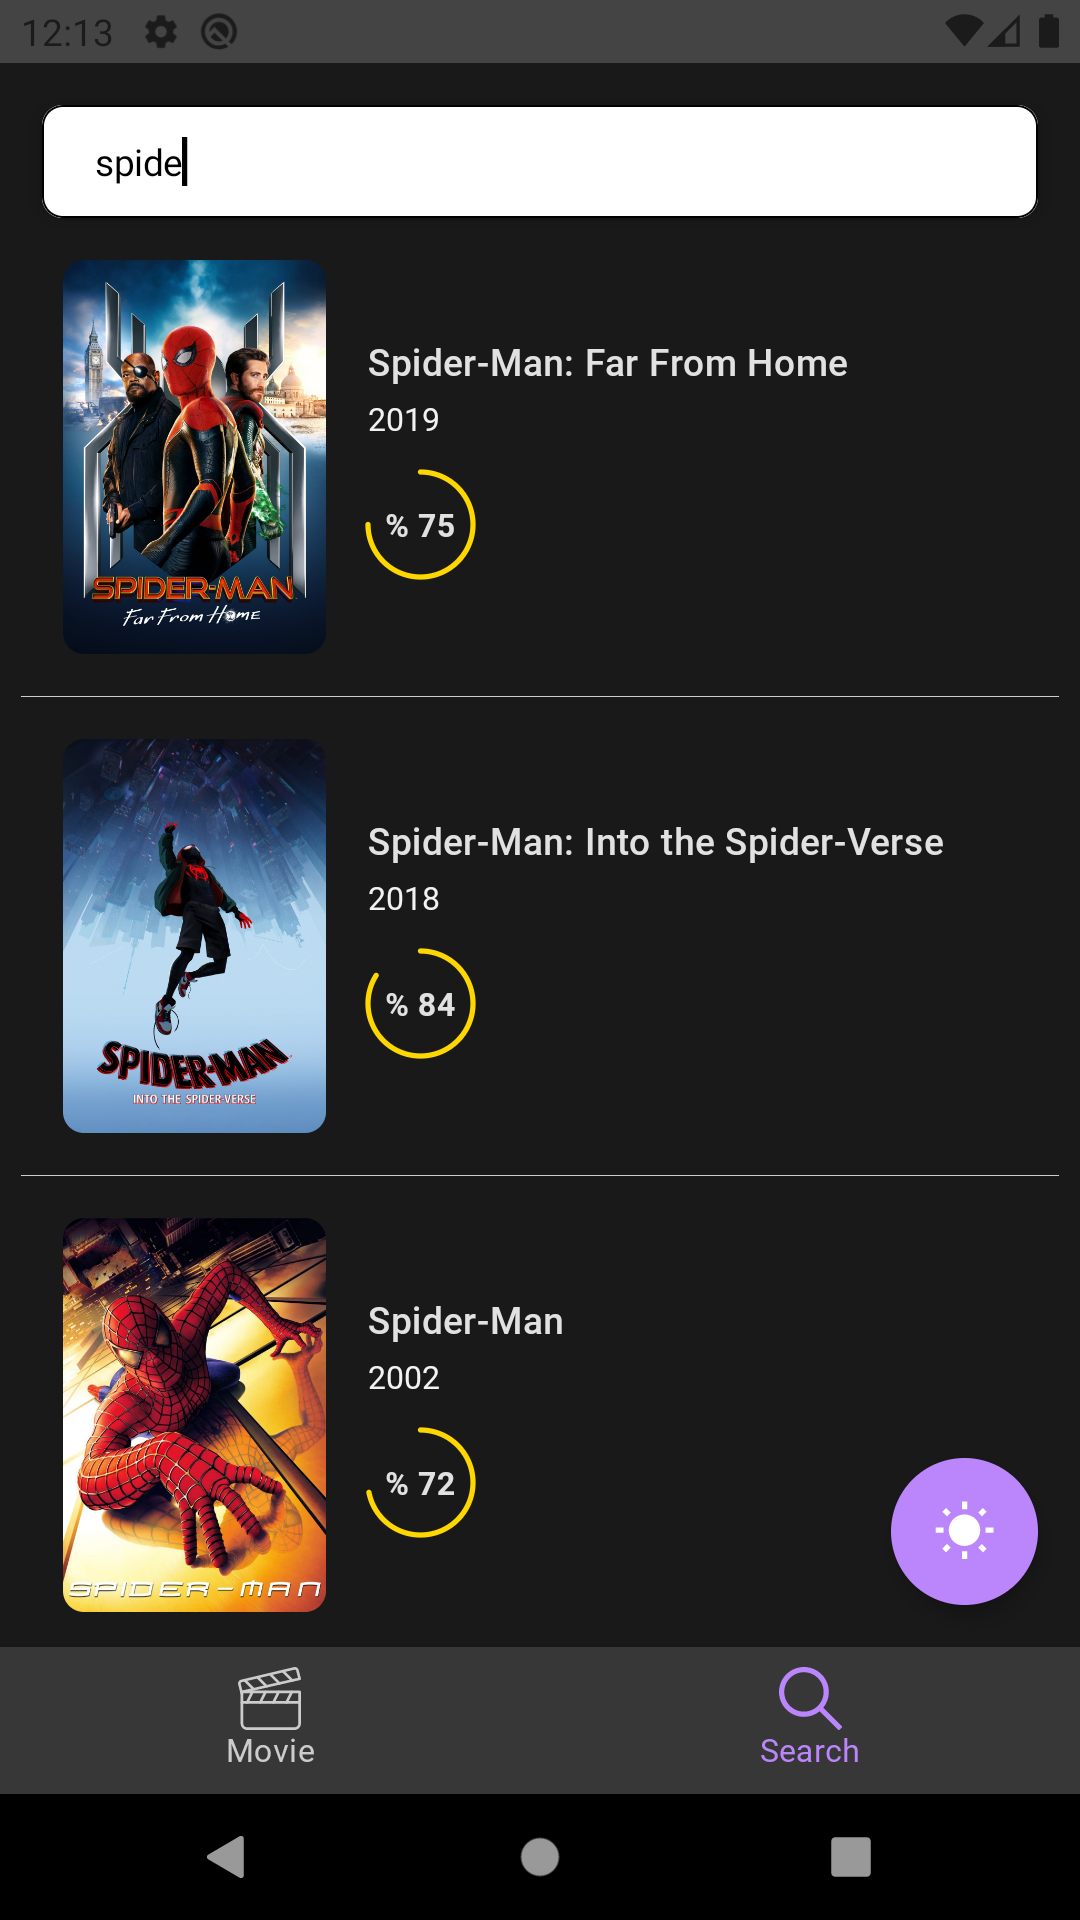
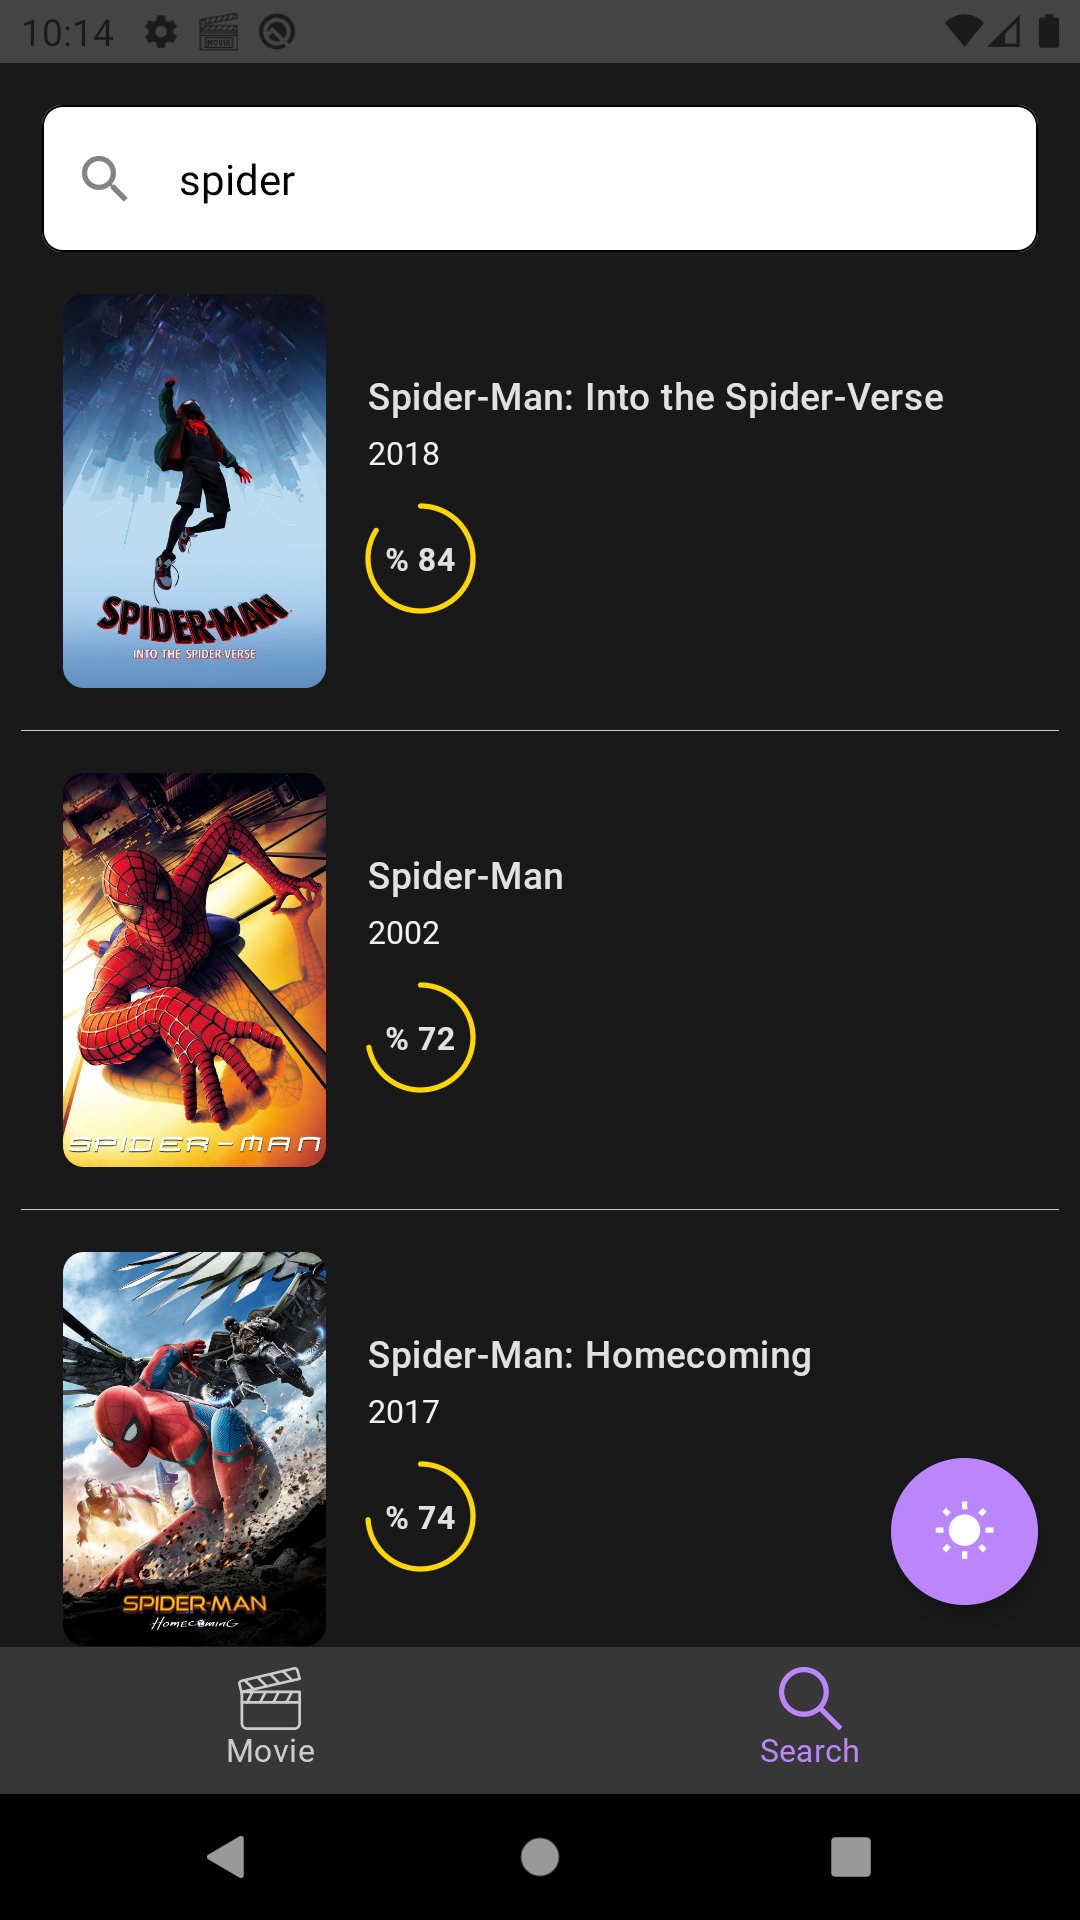
Updated TextField class

diff --git a/app/src/main/java/com/caner/composemoviedb/ui/component/TextField.kt b/app/src/main/java/com/caner/composemoviedb/ui/component/TextField.kt
@@ -1,0 +1,56 @@
+package com.caner.composemoviedb.ui.component
+
+import androidx.compose.foundation.border
+import androidx.compose.foundation.layout.fillMaxWidth
+import androidx.compose.foundation.layout.size
+import androidx.compose.foundation.shape.RoundedCornerShape
+import androidx.compose.material.Icon
+import androidx.compose.material.Text
+import androidx.compose.material.TextField
+import androidx.compose.material.TextFieldDefaults
+import androidx.compose.material.icons.Icons
+import androidx.compose.material.icons.filled.Search
+import androidx.compose.runtime.*
+import androidx.compose.runtime.saveable.rememberSaveable
+import androidx.compose.ui.Modifier
+import androidx.compose.ui.graphics.Color
+import androidx.compose.ui.unit.dp
+import com.caner.composemoviedb.ui.theme.Typography
+
+@Composable
+fun MovieTextField(
+    modifier: Modifier,
+    placeHolder: String = "",
+    newValue: (String) -> Unit = {}
+) {
+    var query by rememberSaveable { mutableStateOf("") }
+
+    TextField(
+        value = query,
+        onValueChange = {
+            query = it
+            newValue(it)
+        },
+        maxLines = 1,
+        shape = RoundedCornerShape(8.dp),
+        placeholder = { Text(text = placeHolder) },
+        leadingIcon = {
+            Icon(
+                imageVector = Icons.Default.Search,
+                contentDescription = null,
+                modifier = Modifier.size(24.dp)
+            )
+        },
+        singleLine = true,
+        textStyle = Typography.body1,
+        colors = TextFieldDefaults.textFieldColors(
+            textColor = Color.Black,
+            backgroundColor = Color.White,
+            focusedIndicatorColor = Color.Transparent,
+            unfocusedIndicatorColor = Color.Transparent,
+        ),
+        modifier = modifier
+            .fillMaxWidth()
+            .border(0.5.dp, Color.Black, RoundedCornerShape(8.dp))
+    )
+}

diff --git a/app/src/main/java/com/caner/composemoviedb/ui/screen/SearchScreen.kt b/app/src/main/java/com/caner/composemoviedb/ui/screen/SearchScreen.kt
@@ -27,7 +27,7 @@ import com.caner.composemoviedb.data.Movie
 import com.caner.composemoviedb.presentation.SearchViewModel
 import com.caner.composemoviedb.ui.component.CircularProgress
 import com.caner.composemoviedb.ui.component.MoviePoster
-import com.caner.composemoviedb.ui.component.SearchBar
+import com.caner.composemoviedb.ui.component.MovieTextField
 import kotlinx.coroutines.ExperimentalCoroutinesApi
 import kotlinx.coroutines.FlowPreview
 
@@ -45,11 +45,11 @@ fun SearchScreen(
             .background(MaterialTheme.colors.background),
         horizontalAlignment = Alignment.CenterHorizontally
     ) {
-        SearchBar(
+        MovieTextField(
             modifier = Modifier
                 .fillMaxWidth()
                 .padding(16.dp),
-            hint = stringResource(id = R.string.search_hint)
+            placeHolder = stringResource(id = R.string.search_hint)
         ) {
             viewModel.searchQuery.value = it
         }
